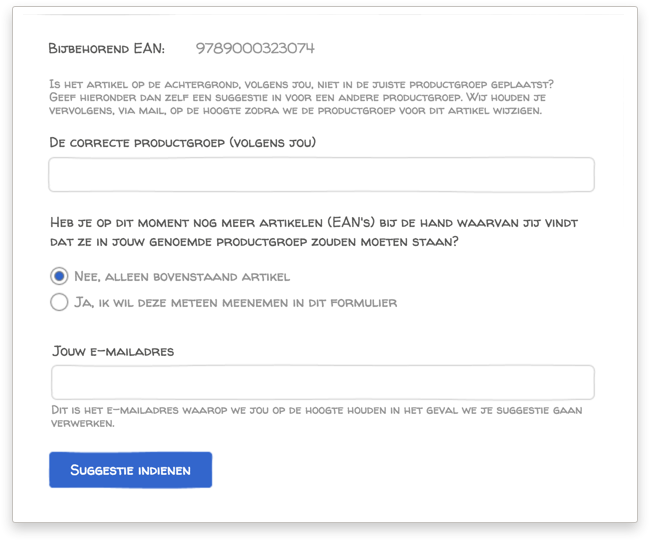
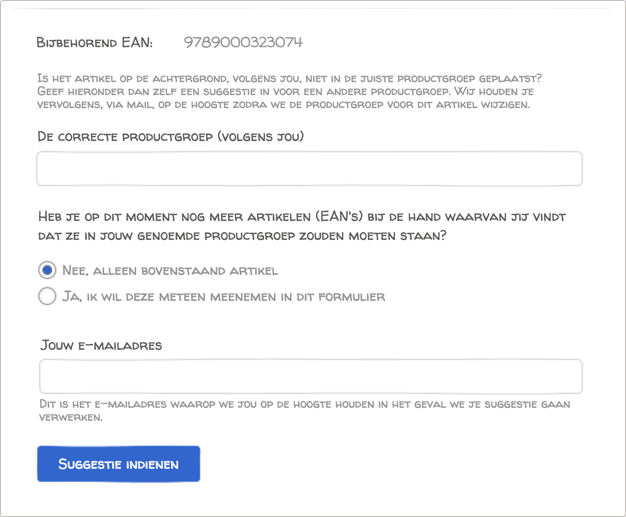
google close is working now

diff --git a/feedback_google.framer/framer/framer.generated.js b/feedback_google.framer/framer/framer.generated.js
@@ -12,7 +12,7 @@ window.__imported__["feedback/layers.json.js"] = [
       {
         "maskFrame" : null,
         "id" : "598F23F6-50D9-4F9F-BF4B-F24EDEFB9657",
-        "visible" : true,
+        "visible" : false,
         "children" : [
           {
             "maskFrame" : null,
@@ -24,10 +24,10 @@ window.__imported__["feedback/layers.json.js"] = [
             "image" : {
               "path" : "images\/Layer-close-7234AB34-5B6B-452A-A05D-FB2E2A54E666.png",
               "frame" : {
-                "y" : 375,
-                "x" : 977,
-                "width" : 8,
-                "height" : 8
+                "y" : 372,
+                "x" : 975,
+                "width" : 12,
+                "height" : 14
               }
             },
             "imageType" : "png",
@@ -43,10 +43,10 @@ window.__imported__["feedback/layers.json.js"] = [
               "string" : ""
             },
             "layerFrame" : {
-              "y" : 375,
-              "x" : 977,
-              "width" : 8,
-              "height" : 8
+              "y" : 372,
+              "x" : 975,
+              "width" : 12,
+              "height" : 14
             },
             "name" : "close"
           }
@@ -54,10 +54,10 @@ window.__imported__["feedback/layers.json.js"] = [
         "image" : {
           "path" : "images\/Layer-custom-598F23F6-50D9-4F9F-BF4B-F24EDEFB9657.png",
           "frame" : {
-            "y" : 351,
-            "x" : 361,
-            "width" : 650,
-            "height" : 541
+            "y" : 357,
+            "x" : 373,
+            "width" : 626,
+            "height" : 517
           }
         },
         "imageType" : "png",
@@ -66,10 +66,10 @@ window.__imported__["feedback/layers.json.js"] = [
           "opacity" : 1
         },
         "layerFrame" : {
-          "y" : 351,
-          "x" : 361,
-          "width" : 650,
-          "height" : 541
+          "y" : 357,
+          "x" : 373,
+          "width" : 626,
+          "height" : 517
         },
         "name" : "custom"
       },
@@ -86,33 +86,26 @@ window.__imported__["feedback/layers.json.js"] = [
 
             ],
             "image" : {
-              "path" : "images\/Layer-close-86198FAE-78E9-483D-B7EF-D66C8C152EFE.png",
+              "path" : "images\/Layer-gclose-86198FAE-78E9-483D-B7EF-D66C8C152EFE.png",
               "frame" : {
-                "y" : 375,
-                "x" : 977,
-                "width" : 8,
-                "height" : 8
+                "y" : 360,
+                "x" : 956,
+                "width" : 40,
+                "height" : 39
               }
             },
             "imageType" : "png",
-            "kind" : "text",
+            "kind" : "group",
             "metadata" : {
-              "css" : [
-                "\/* Type something: *\/",
-                "font-family: BolSymbols;",
-                "font-size: 12px;",
-                "color: #000000;",
-                "line-height: 12px;"
-              ],
-              "string" : ""
+              "opacity" : 1
             },
             "layerFrame" : {
-              "y" : 375,
-              "x" : 977,
-              "width" : 8,
-              "height" : 8
+              "y" : 360,
+              "x" : 956,
+              "width" : 40,
+              "height" : 39
             },
-            "name" : "close"
+            "name" : "gclose"
           }
         ],
         "image" : {

diff --git a/feedback_google.framer/imported/feedback@1x/layers.json.js b/feedback_google.framer/imported/feedback@1x/layers.json.js
@@ -8,7 +8,7 @@ window.__imported__["feedback/layers.json.js"] = [
       {
         "maskFrame" : null,
         "id" : "598F23F6-50D9-4F9F-BF4B-F24EDEFB9657",
-        "visible" : true,
+        "visible" : false,
         "children" : [
           {
             "maskFrame" : null,
@@ -20,10 +20,10 @@ window.__imported__["feedback/layers.json.js"] = [
             "image" : {
               "path" : "images\/Layer-close-7234AB34-5B6B-452A-A05D-FB2E2A54E666.png",
               "frame" : {
-                "y" : 375,
-                "x" : 977,
-                "width" : 8,
-                "height" : 8
+                "y" : 372,
+                "x" : 975,
+                "width" : 12,
+                "height" : 14
               }
             },
             "imageType" : "png",
@@ -39,10 +39,10 @@ window.__imported__["feedback/layers.json.js"] = [
               "string" : ""
             },
             "layerFrame" : {
-              "y" : 375,
-              "x" : 977,
-              "width" : 8,
-              "height" : 8
+              "y" : 372,
+              "x" : 975,
+              "width" : 12,
+              "height" : 14
             },
             "name" : "close"
           }
@@ -50,10 +50,10 @@ window.__imported__["feedback/layers.json.js"] = [
         "image" : {
           "path" : "images\/Layer-custom-598F23F6-50D9-4F9F-BF4B-F24EDEFB9657.png",
           "frame" : {
-            "y" : 351,
-            "x" : 361,
-            "width" : 650,
-            "height" : 541
+            "y" : 357,
+            "x" : 373,
+            "width" : 626,
+            "height" : 517
           }
         },
         "imageType" : "png",
@@ -62,10 +62,10 @@ window.__imported__["feedback/layers.json.js"] = [
           "opacity" : 1
         },
         "layerFrame" : {
-          "y" : 351,
-          "x" : 361,
-          "width" : 650,
-          "height" : 541
+          "y" : 357,
+          "x" : 373,
+          "width" : 626,
+          "height" : 517
         },
         "name" : "custom"
       },
@@ -82,33 +82,26 @@ window.__imported__["feedback/layers.json.js"] = [
 
             ],
             "image" : {
-              "path" : "images\/Layer-close-86198FAE-78E9-483D-B7EF-D66C8C152EFE.png",
+              "path" : "images\/Layer-gclose-86198FAE-78E9-483D-B7EF-D66C8C152EFE.png",
               "frame" : {
-                "y" : 375,
-                "x" : 977,
-                "width" : 8,
-                "height" : 8
+                "y" : 360,
+                "x" : 956,
+                "width" : 40,
+                "height" : 39
               }
             },
             "imageType" : "png",
-            "kind" : "text",
+            "kind" : "group",
             "metadata" : {
-              "css" : [
-                "\/* Type something: *\/",
-                "font-family: BolSymbols;",
-                "font-size: 12px;",
-                "color: #000000;",
-                "line-height: 12px;"
-              ],
-              "string" : ""
+              "opacity" : 1
             },
             "layerFrame" : {
-              "y" : 375,
-              "x" : 977,
-              "width" : 8,
-              "height" : 8
+              "y" : 360,
+              "x" : 956,
+              "width" : 40,
+              "height" : 39
             },
-            "name" : "close"
+            "name" : "gclose"
           }
         ],
         "image" : {
